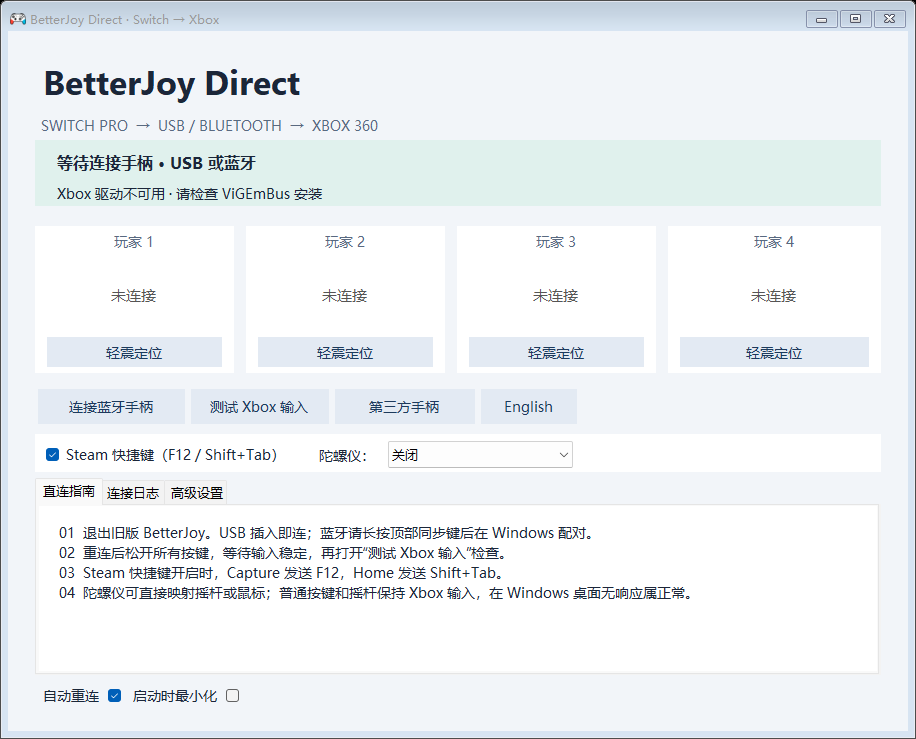
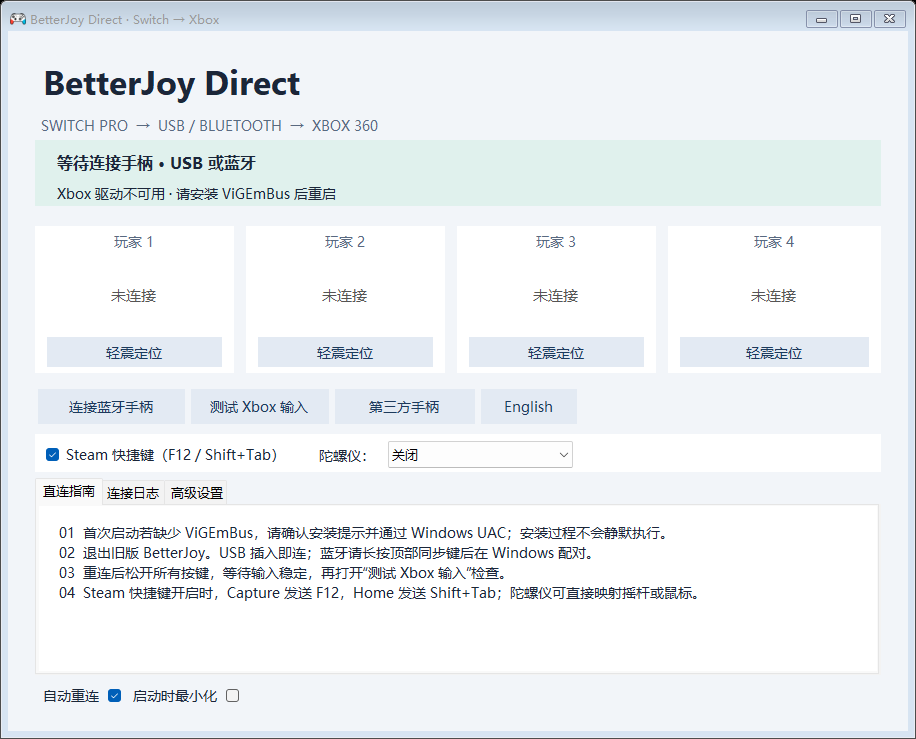
Improve ViGEmBus driver onboarding

Changed region(s): [[0.0917, 0.7158, 0.7642, 0.8092], [0.3057, 0.249, 0.3668, 0.2801], [0.214, 0.249, 0.2445, 0.2801]]

diff --git a/BetterJoyForCemu/UiTextCatalog.cs b/BetterJoyForCemu/UiTextCatalog.cs
@@ -10,7 +10,9 @@ namespace BetterJoyForCemu {
             "Exit", "TrayHint", "WaitingStatus", "ConnectedStatus", "DriverUnavailable",
             "DriverReady", "DriverReadyNoShortcuts", "LanguageButton", "SettingSaveError",
             "SteamShortcutsToggle", "GyroModeLabel", "GyroOff",
-            "GyroLeftStick", "GyroRightStick", "GyroMouse"
+            "GyroLeftStick", "GyroRightStick", "GyroMouse", "DriverInstallTitle",
+            "DriverInstallPrompt", "DriverInstallerMissing", "DriverInstallFailed",
+            "DriverRestartRequired", "DriverInstallRetryFailed"
         };
 
         private readonly IDictionary<string, string> values;
@@ -59,7 +61,7 @@ namespace BetterJoyForCemu {
                 { "GuideTab", "直连指南" },
                 { "LogTab", "连接日志" },
                 { "AdvancedTab", "高级设置" },
-                { "GuideBody", "01  退出旧版 BetterJoy。USB 插入即连；蓝牙请长按顶部同步键后在 Windows 配对。\r\n02  重连后松开所有按键，等待输入稳定，再打开“测试 Xbox 输入”检查。\r\n03  Steam 快捷键开启时，Capture 发送 F12，Home 发送 Shift+Tab。\r\n04  陀螺仪可直接映射摇杆或鼠标；普通按键和摇杆保持 Xbox 输入，在 Windows 桌面无响应属正常。" },
+                { "GuideBody", "01  首次启动若缺少 ViGEmBus，请确认安装提示并通过 Windows UAC；安装过程不会静默执行。\r\n02  退出旧版 BetterJoy。USB 插入即连；蓝牙请长按顶部同步键后在 Windows 配对。\r\n03  重连后松开所有按键，等待输入稳定，再打开“测试 Xbox 输入”检查。\r\n04  Steam 快捷键开启时，Capture 发送 F12，Home 发送 Shift+Tab；陀螺仪可直接映射摇杆或鼠标。" },
                 { "SaveRestart", "保存并重启" },
                 { "AutoReconnect", "自动重连" },
                 { "StartInTray", "启动时最小化" },
@@ -67,7 +69,7 @@ namespace BetterJoyForCemu {
                 { "TrayHint", "双击托盘图标恢复 BetterJoy Direct。" },
                 { "WaitingStatus", "等待连接手柄 · USB 或蓝牙" },
                 { "ConnectedStatus", "已连接 {0} 个手柄 · 松开唤醒按键后开始使用" },
-                { "DriverUnavailable", "Xbox 驱动不可用 · 请检查 ViGEmBus 安装" },
+                { "DriverUnavailable", "Xbox 驱动不可用 · 请安装 ViGEmBus 后重启" },
                 { "DriverReady", "Xbox 驱动已就绪 · 标准手柄输入正常 · Steam 快捷键已开启" },
                 { "DriverReadyNoShortcuts", "Xbox 驱动已就绪 · 标准手柄输入正常 · Steam 快捷键已关闭" },
                 { "LanguageButton", "English" },
@@ -77,7 +79,13 @@ namespace BetterJoyForCemu {
                 { "GyroOff", "关闭" },
                 { "GyroLeftStick", "映射左摇杆" },
                 { "GyroRightStick", "映射右摇杆（推荐）" },
-                { "GyroMouse", "映射鼠标" }
+                { "GyroMouse", "映射鼠标" },
+                { "DriverInstallTitle", "安装 Xbox 虚拟手柄驱动" },
+                { "DriverInstallPrompt", "BetterJoy Direct 需要 ViGEmBus 才能创建虚拟 Xbox 手柄。\r\n\r\n完整发布包内含由 Nefarius 签名的 ViGEmBus 1.17.333.0。该项目已停止维护。是否现在启动安装程序？\r\n\r\nWindows 将显示管理员权限提示；驱动不会静默安装。" },
+                { "DriverInstallerMissing", "未找到随包驱动安装程序：\r\n{0}\r\n\r\n请重新下载并完整解压 BetterJoy Direct。" },
+                { "DriverInstallFailed", "ViGEmBus 安装程序未成功完成（退出代码：{0}）。请打开 Drivers 文件夹手动运行安装程序。" },
+                { "DriverRestartRequired", "ViGEmBus 安装已经完成，但 Windows 要求重新启动。请重启 Windows 后再次运行 BetterJoy Direct。" },
+                { "DriverInstallRetryFailed", "安装程序已结束，但 ViGEmBus 仍不可用。请重启 BetterJoy Direct；若仍失败，请重启 Windows。" }
             };
         }
 
@@ -96,7 +104,7 @@ namespace BetterJoyForCemu {
                 { "GuideTab", "Direct connection" },
                 { "LogTab", "Connection log" },
                 { "AdvancedTab", "Advanced" },
-                { "GuideBody", "01  Close older BetterJoy versions. Connect by USB, or hold the top sync button and pair in Windows.\r\n02  After reconnecting, release every button and wait for stable input, then open “Test Xbox input”.\r\n03  With Steam shortcuts on, Capture sends F12 and Home sends Shift+Tab.\r\n04  Gyro can directly drive a stick or mouse. Regular buttons and sticks remain Xbox input, so no response on the Windows desktop is normal." },
+                { "GuideBody", "01  If ViGEmBus is missing on first launch, confirm the installer prompt and Windows UAC; installation is never silent.\r\n02  Close older BetterJoy versions. Connect by USB, or hold the top sync button and pair in Windows.\r\n03  After reconnecting, release every button and wait for stable input, then open “Test Xbox input”.\r\n04  Capture sends F12 and Home sends Shift+Tab when Steam shortcuts are on; gyro can drive a stick or mouse." },
                 { "SaveRestart", "Save and restart" },
                 { "AutoReconnect", "Auto reconnect" },
                 { "StartInTray", "Start minimized" },
@@ -104,7 +112,7 @@ namespace BetterJoyForCemu {
                 { "TrayHint", "Double-click the tray icon to restore BetterJoy Direct." },
                 { "WaitingStatus", "Waiting for a controller · USB or Bluetooth" },
                 { "ConnectedStatus", "{0} controller(s) connected · release wake buttons before use" },
-                { "DriverUnavailable", "Xbox driver unavailable · check the ViGEmBus installation" },
+                { "DriverUnavailable", "Xbox driver unavailable · install ViGEmBus and restart" },
                 { "DriverReady", "Xbox driver ready · standard controller input active · Steam shortcuts on" },
                 { "DriverReadyNoShortcuts", "Xbox driver ready · standard controller input active · Steam shortcuts off" },
                 { "LanguageButton", "中文" },
@@ -114,7 +122,13 @@ namespace BetterJoyForCemu {
                 { "GyroOff", "Off" },
                 { "GyroLeftStick", "Map to left stick" },
                 { "GyroRightStick", "Map to right stick (recommended)" },
-                { "GyroMouse", "Map to mouse" }
+                { "GyroMouse", "Map to mouse" },
+                { "DriverInstallTitle", "Install the Xbox virtual controller driver" },
+                { "DriverInstallPrompt", "BetterJoy Direct requires ViGEmBus to create a virtual Xbox controller.\r\n\r\nThe complete release includes ViGEmBus 1.17.333.0 signed by Nefarius. The project has been retired. Start the installer now?\r\n\r\nWindows will request administrator approval; the driver is never installed silently." },
+                { "DriverInstallerMissing", "The bundled driver installer was not found:\r\n{0}\r\n\r\nDownload BetterJoy Direct again and extract the complete archive." },
+                { "DriverInstallFailed", "The ViGEmBus installer did not complete successfully (exit code: {0}). Open the Drivers folder and run the installer manually." },
+                { "DriverRestartRequired", "ViGEmBus installation completed, but Windows requires a restart. Restart Windows, then run BetterJoy Direct again." },
+                { "DriverInstallRetryFailed", "The installer finished, but ViGEmBus is still unavailable. Restart BetterJoy Direct; if that fails, restart Windows." }
             };
         }
     }

diff --git a/BetterJoyForCemu/ViGEmBusInstaller.cs b/BetterJoyForCemu/ViGEmBusInstaller.cs
@@ -1,0 +1,68 @@
+using System;
+using System.ComponentModel;
+using System.Diagnostics;
+using System.IO;
+using System.Windows.Forms;
+
+namespace BetterJoyForCemu {
+    internal static class ViGEmBusInstaller {
+        internal const string InstallerRelativePath = @"Drivers\ViGEmBusSetup_x64.msi";
+
+        internal static string GetInstallerPath(string baseDirectory) {
+            return Path.Combine(baseDirectory, InstallerRelativePath);
+        }
+
+        internal static bool PromptAndInstall(MainForm form) {
+            string installerPath = GetInstallerPath(AppDomain.CurrentDomain.BaseDirectory);
+            string title = form.GetUiText("DriverInstallTitle");
+            if (!File.Exists(installerPath)) {
+                MessageBox.Show(form,
+                    String.Format(form.GetUiText("DriverInstallerMissing"), installerPath),
+                    title, MessageBoxButtons.OK, MessageBoxIcon.Error);
+                return false;
+            }
+
+            if (MessageBox.Show(form, form.GetUiText("DriverInstallPrompt"), title,
+                MessageBoxButtons.YesNo, MessageBoxIcon.Warning) != DialogResult.Yes)
+                return false;
+
+            try {
+                var startInfo = new ProcessStartInfo {
+                    FileName = "msiexec.exe",
+                    Arguments = "/i \"" + installerPath + "\" /norestart",
+                    WorkingDirectory = Path.GetDirectoryName(installerPath),
+                    UseShellExecute = true,
+                    Verb = "runas"
+                };
+                int exitCode;
+                using (Process installer = Process.Start(startInfo)) {
+                    if (installer == null) return false;
+                    installer.WaitForExit();
+                    exitCode = installer.ExitCode;
+                }
+
+                if (exitCode == 0) return true;
+                if (exitCode == 1641 || exitCode == 3010) {
+                    MessageBox.Show(form, form.GetUiText("DriverRestartRequired"), title,
+                        MessageBoxButtons.OK, MessageBoxIcon.Information);
+                    return false;
+                }
+
+                MessageBox.Show(form,
+                    String.Format(form.GetUiText("DriverInstallFailed"), exitCode),
+                    title, MessageBoxButtons.OK, MessageBoxIcon.Error);
+            } catch (Win32Exception e) {
+                // Windows returns 1223 when the user cancels the UAC prompt.
+                if (e.NativeErrorCode != 1223)
+                    MessageBox.Show(form,
+                        String.Format(form.GetUiText("DriverInstallFailed"), e.NativeErrorCode),
+                        title, MessageBoxButtons.OK, MessageBoxIcon.Error);
+            } catch (Exception) {
+                MessageBox.Show(form,
+                    String.Format(form.GetUiText("DriverInstallFailed"), "unknown"),
+                    title, MessageBoxButtons.OK, MessageBoxIcon.Error);
+            }
+            return false;
+        }
+    }
+}

diff --git a/tests/FeatureRegressionTests.cs b/tests/FeatureRegressionTests.cs
@@ -1,5 +1,6 @@
 using System;
 using System.Drawing;
+using System.IO;
 using System.Reflection;
 using System.Windows.Forms;
 using BetterJoyForCemu;
@@ -36,6 +37,18 @@ class FeatureRegressionTests {
             Fail("Language normalization is inconsistent");
         if (chinese["LanguageButton"] == english["LanguageButton"])
             Fail("Language button does not expose the target language");
+
+        Type installerType = typeof(UiTextCatalog).Assembly.GetType("BetterJoyForCemu.ViGEmBusInstaller");
+        if (installerType == null)
+            Fail("ViGEmBus installer helper was not included in the application");
+        MethodInfo getInstallerPath = installerType.GetMethod("GetInstallerPath", BindingFlags.Static | BindingFlags.NonPublic);
+        if (getInstallerPath == null)
+            Fail("ViGEmBus installer path resolver was not found");
+        string fakeBase = Path.Combine(Path.GetTempPath(), "BetterJoy-Direct-driver-test");
+        string resolvedInstallerPath = (string)getInstallerPath.Invoke(null, new object[] { fakeBase });
+        string expectedInstallerPath = Path.Combine(fakeBase, "Drivers", "ViGEmBusSetup_x64.msi");
+        if (!String.Equals(resolvedInstallerPath, expectedInstallerPath, StringComparison.OrdinalIgnoreCase))
+            Fail("ViGEmBus installer path resolved incorrectly: " + resolvedInstallerPath);
 
         MainForm.PreviewOnly = true;
         MainForm.PreviewLanguage = "zh-CN";
@@ -118,6 +131,7 @@ class FeatureRegressionTests {
 
         Console.WriteLine("PASS: gentle locate profile " + profile.Strength + " for " + profile.DurationMs + "ms");
         Console.WriteLine("PASS: " + UiTextCatalog.RequiredKeys.Length + " bilingual UI strings and two-way toggle");
+        Console.WriteLine("PASS: bundled ViGEmBus installer path resolves under Drivers");
         Console.WriteLine("PASS: live language button refresh and preference save");
         Console.WriteLine("PASS: desktop mapping UI removed; Steam shortcut and gyro controls remain live");
         Console.WriteLine("PASS: resize range and paint-ready tray restore");

diff --git a/tools/package-direct.py b/tools/package-direct.py
@@ -20,8 +20,11 @@ guide = '''BetterJoy Direct · Windows x64
 
 旧版自定义键鼠绑定和全局键鼠监听已移除。
 普通按键与摇杆保持 Xbox 输入，在 Windows 桌面无响应属于正常现象。
-本程序仍依赖 ViGEmBus；当前电脑已有，不需要再次安装。
-不包含驱动安装器，不改变 Steam 或系统设备隐藏配置。
+本程序依赖 ViGEmBus。完整发布包内含上游提供、由 Nefarius 签名的 x64 安装程序。
+首次启动若检测不到驱动，程序会先征求同意，再启动安装程序和 Windows UAC；绝不静默安装。
+若选择稍后安装，界面仍可打开，但不会产生虚拟 Xbox/XInput 输出。
+ViGEmBus 已停止维护；安装程序版本与校验值见 Drivers/README.txt。
+本程序不会自动改变 Steam、HidHide 或系统设备隐藏配置。
 如果其它软件仍在映射物理手柄，先退出该软件以排除重复输入。
 
 点“测试 Xbox 输入”检查按键。高级设置点“保存并重启”生效。
@@ -34,7 +37,8 @@ USB 和具体远程软件转发仍需在对应环境验证。
 (app / '使用说明.txt').write_text(guide, encoding='utf-8-sig')
 names = ['BetterJoyForCemu.exe', 'BetterJoyForCemu.exe.config', 'Crc32.NET.dll',
          'JetBrains.Annotations.dll', 'Nefarius.ViGEm.Client.dll', 'WindowsInput.dll',
-         'x64/hidapi.dll', 'LICENSE', '使用说明.txt']
+         'x64/hidapi.dll', 'Drivers/ViGEmBusSetup_x64.msi', 'Drivers/README.txt',
+         'LICENSE', '使用说明.txt']
 entries = [(app / name, name) for name in names]
 entries += [
     (root / 'README.md', 'README.md'),

diff --git a/BetterJoyForCemu/Program.cs b/BetterJoyForCemu/Program.cs
@@ -419,6 +419,16 @@ namespace BetterJoyForCemu {
                     emClient = new ViGEmClient(); // Manages emulated XInput
                 } catch (Nefarius.ViGEm.Client.Exceptions.VigemBusNotFoundException) {
                     form.console.AppendText("Could not start VigemBus. Make sure drivers are installed correctly.\r\n");
+                    if (ViGEmBusInstaller.PromptAndInstall(form)) {
+                        try {
+                            emClient = new ViGEmClient();
+                            form.console.AppendText("ViGEmBus installed and connected.\r\n");
+                        } catch (Nefarius.ViGEm.Client.Exceptions.VigemBusNotFoundException) {
+                            form.console.AppendText(form.GetUiText("DriverInstallRetryFailed") + "\r\n");
+                            MessageBox.Show(form, form.GetUiText("DriverInstallRetryFailed"),
+                                form.GetUiText("DriverInstallTitle"), MessageBoxButtons.OK, MessageBoxIcon.Warning);
+                        }
+                    }
                 }
             }
 

diff --git a/BetterJoyForCemu/MainForm.cs b/BetterJoyForCemu/MainForm.cs
@@ -269,6 +269,8 @@ namespace BetterJoyForCemu {
         }
 
         void ReenableViGEm(Joycon v) {
+            if (Program.emClient == null) return;
+
             if (showAsXInput && v.out_xbox == null) {
                 v.out_xbox = new Controller.OutputControllerXbox360();
 

diff --git a/README.md b/README.md
@@ -9,7 +9,7 @@ A focused Windows x64 fork of [BetterJoy](https://github.com/Davidobot/BetterJoy
 <p>
   <img alt="Windows 10 and 11" src="https://img.shields.io/badge/Windows-10%20%7C%2011-0078D4?logo=windows&logoColor=white">
   <img alt="x64" src="https://img.shields.io/badge/architecture-x64-6C63FF">
-  <img alt="375 regression checks" src="https://img.shields.io/badge/regression%20checks-375%20passing-2EA44F">
+  <img alt="381 regression checks" src="https://img.shields.io/badge/regression%20checks-381%20passing-2EA44F">
   <a href="LICENSE"><img alt="MIT License" src="https://img.shields.io/badge/license-MIT-blue.svg"></a>
 </p>
 
@@ -47,22 +47,24 @@ A focused Windows x64 fork of [BetterJoy](https://github.com/Davidobot/BetterJoy
 
 ## Quick start
 
-### 1. Install the requirement
+### 1. Prepare the virtual-controller driver
 
 - Windows 10 or Windows 11 x64
-- An installed [ViGEmBus](https://github.com/nefarius/ViGEmBus) driver
 - A Switch Pro Controller or supported Joy-Con over USB or Bluetooth
 
-ViGEmBus has been retired upstream. BetterJoy Direct reuses an installed driver; the portable package does not install or replace its kernel component.
+The complete x64 release includes the upstream-provided ViGEmBus `1.17.333.0` x64 installer, Authenticode-signed by Nefarius Software Solutions e.U. On first launch, BetterJoy Direct detects a missing driver and asks before starting the installer. Windows then displays its normal UAC prompt. The driver is never installed silently; choosing **No** leaves the interface available but disables virtual Xbox/XInput output.
+
+ViGEmBus is a system driver, so it cannot be made portable and still requires one administrator-approved installation. The upstream project has been retired; BetterJoy Direct bundles the existing signed installer for compatibility but does not maintain or re-sign it. Its version and SHA-256 are recorded in [`Drivers/README.txt`](BetterJoyForCemu/Drivers/README.txt).
 
 ### 2. Download and connect
 
 1. Download the portable ZIP from [GitHub Releases](https://github.com/zzirui321-rgb/BetterJoy-Direct/releases), then extract the complete archive.
 2. Close older BetterJoy instances and other mappers that may open the same physical controller.
 3. Run `BetterJoyForCemu.exe`.
-4. Connect over USB, or hold the controller's sync button and pair it in Windows Bluetooth settings.
-5. After connecting or reconnecting, release every button and wait at least **300 ms** for the neutral-input gate.
-6. Select **Test Xbox input** and verify the controller in the Windows game-controller panel.
+4. If prompted, choose **Yes**, approve Windows UAC, and complete the bundled ViGEmBus installer. Restart BetterJoy Direct or Windows if requested.
+5. Connect over USB, or hold the controller's sync button and pair it in Windows Bluetooth settings.
+6. After connecting or reconnecting, release every button and wait at least **300 ms** for the neutral-input gate.
+7. Select **Test Xbox input** and verify the controller in the Windows game-controller panel.
 
 > [!TIP]
 > Regular buttons and sticks produce XInput, so Windows Explorer will not react to them. Gyro mouse mode moves the pointer directly.
@@ -96,14 +98,14 @@ report validation → reconnect release gate → calibration and parsing
         └─ optional motion server → DSU/Cemuhook data
 ```
 
-The portable package does not modify drivers, Steam settings, HidHide, or Windows device-hiding rules. Remote-control software must provide its own gamepad-forwarding channel; BetterJoy Direct cannot add controller transport to an arbitrary remote protocol.
+BetterJoy Direct only launches the bundled driver installer after explicit confirmation and Windows UAC; it never installs a driver silently. It does not change Steam settings, HidHide, or Windows device-hiding rules. Remote-control software must provide its own gamepad-forwarding channel; BetterJoy Direct cannot add controller transport to an arbitrary remote protocol.
 
 ## Verification snapshot
 
 | Area | Result |
 |---|---|
 | Input regression | **343 checks passed** — report bounds, all 256 report IDs, timestamps, reconnect gating, calibration, deadzones, Steam shortcut edges, gyro direction, and Guide suppression |
-| UI and behavior | **32 checks passed** — bilingual text, runtime settings, resizing, and tray restore |
+| UI and behavior | **38 checks passed** — bilingual text, driver onboarding, runtime settings, resizing, and tray restore |
 | Virtual Xbox lifecycle | **3 consecutive cycles passed** — create, move, neutralize, and disconnect |
 | Physical hardware | **704 XInput samples** — Switch Pro over Bluetooth, including physical disconnect and automatic reconnect |
 

diff --git a/README.zh-CN.md b/README.zh-CN.md
@@ -9,7 +9,7 @@ BetterJoy 的专注型 Windows x64 分支：更安全的重连、运行时陀螺
 <p>
   <img alt="Windows 10 和 11" src="https://img.shields.io/badge/Windows-10%20%7C%2011-0078D4?logo=windows&logoColor=white">
   <img alt="x64" src="https://img.shields.io/badge/architecture-x64-6C63FF">
-  <img alt="375 项回归检查" src="https://img.shields.io/badge/regression%20checks-375%20passing-2EA44F">
+  <img alt="381 项回归检查" src="https://img.shields.io/badge/regression%20checks-381%20passing-2EA44F">
   <a href="LICENSE"><img alt="MIT License" src="https://img.shields.io/badge/license-MIT-blue.svg"></a>
 </p>
 
@@ -47,22 +47,24 @@ BetterJoy 的专注型 Windows x64 分支：更安全的重连、运行时陀螺
 
 ## 快速开始
 
-### 1. 准备运行环境
+### 1. 准备虚拟手柄驱动
 
 - Windows 10 或 Windows 11 x64
-- 已安装 [ViGEmBus](https://github.com/nefarius/ViGEmBus) 驱动
 - 通过 USB 或蓝牙连接的 Switch Pro Controller 或受支持的 Joy-Con
 
-ViGEmBus 上游已经停止维护。BetterJoy Direct 只复用已安装的驱动；便携包不会安装或替换其内核组件。
+完整的 x64 发布包内含上游提供的 ViGEmBus `1.17.333.0` x64 安装程序，其 Authenticode 签名者为 Nefarius Software Solutions e.U.。首次启动时，BetterJoy Direct 若检测不到驱动，会先询问是否启动安装程序，随后由 Windows 显示正常的 UAC 管理员授权。驱动绝不会静默安装；选择**否**仍可打开界面，但不会产生虚拟 Xbox/XInput 输出。
+
+ViGEmBus 是系统驱动，无法真正“便携化”，因此仍需完成一次管理员授权安装。其上游项目已经停止维护；BetterJoy Direct 仅为兼容性附带现有签名安装程序，不维护或重新签名该内核驱动。版本和 SHA-256 记录在 [`Drivers/README.txt`](BetterJoyForCemu/Drivers/README.txt)。
 
 ### 2. 下载并连接
 
 1. 从 [GitHub Releases](https://github.com/zzirui321-rgb/BetterJoy-Direct/releases) 下载便携 ZIP，并完整解压。
 2. 退出旧版 BetterJoy，以及可能同时打开同一物理手柄的其它映射软件。
 3. 运行 `BetterJoyForCemu.exe`。
-4. USB 可直接连接；蓝牙请长按手柄同步键，然后在 Windows 蓝牙设置中配对。
-5. 首次连接或重连后松开全部按键，等待至少 **300 毫秒**，让中立输入保护完成。
-6. 点击 **测试 Xbox 输入**，在 Windows 游戏控制器面板中检查按键与摇杆。
+4. 若出现提示，请选择**是**、通过 Windows UAC，并完成随包 ViGEmBus 安装；如有要求，请重启 BetterJoy Direct 或 Windows。
+5. USB 可直接连接；蓝牙请长按手柄同步键，然后在 Windows 蓝牙设置中配对。
+6. 首次连接或重连后松开全部按键，等待至少 **300 毫秒**，让中立输入保护完成。
+7. 点击 **测试 Xbox 输入**，在 Windows 游戏控制器面板中检查按键与摇杆。
 
 > [!TIP]
 > 普通按键和摇杆输出 XInput，因此 Windows 资源管理器不会响应它们。陀螺仪鼠标模式会直接移动光标。
@@ -96,14 +98,14 @@ Switch Pro / Joy-Con
         └─ 可选 Motion Server → DSU/Cemuhook 数据
 ```
 
-便携包不会修改驱动、Steam 设置、HidHide 或 Windows 设备隐藏规则。远程控制软件必须自身支持游戏手柄转发；BetterJoy Direct 无法为任意远程协议自动增加手柄通道。
+BetterJoy Direct 只有在用户明确同意并通过 Windows UAC 后才会启动随包驱动安装程序，绝不会静默安装。它不会修改 Steam 设置、HidHide 或 Windows 设备隐藏规则。远程控制软件必须自身支持游戏手柄转发；BetterJoy Direct 无法为任意远程协议自动增加手柄通道。
 
 ## 验证概览
 
 | 范围 | 结果 |
 |---|---|
 | 输入回归 | **343 项通过**——报文边界、全部 256 个 report ID、时间戳、重连释放门、校准、死区、Steam 快捷键按下沿、陀螺仪方向和 Guide 抑制 |
-| 界面与行为 | **32 项通过**——双语文案、运行时设置、窗口缩放和托盘恢复 |
+| 界面与行为 | **38 项通过**——双语文案、驱动安装引导、运行时设置、窗口缩放和托盘恢复 |
 | 虚拟 Xbox 生命周期 | **连续 3 轮通过**——创建、移动、归零与断开 |
 | 实体硬件 | **704 个 XInput 样本**——Switch Pro 蓝牙连接，包括物理断开与自动重连 |
 

diff --git a/docs/FEATURES.zh-CN.md b/docs/FEATURES.zh-CN.md
@@ -84,6 +84,15 @@ Valve 官方资料：[Steam Input 支持的设备](https://partner.steamgames.co
 - Steam 快捷键只是可选便利功能，不参与 HID→XInput 转换。
 - 远程软件仍必须支持游戏手柄转发；BetterJoy 不会给任意远程协议自动增加手柄通道。
 
+## ViGEmBus 首次安装
+
+- Windows x64 发布包附带上游提供的 `Drivers/ViGEmBusSetup_x64.msi` `1.17.333.0`，其 Authenticode 签名者为 Nefarius Software Solutions e.U.。
+- 启动时若检测不到 ViGEmBus，程序会先显示中英文说明；只有用户选择“是”后才启动安装程序。
+- Windows Installer 使用正常交互界面并请求 UAC 管理员权限；BetterJoy Direct 不使用静默安装参数，也禁止安装程序自动重启 Windows。
+- 用户取消或安装失败时，主界面仍可打开并显示驱动不可用，但不会创建虚拟 Xbox/DS4 设备。
+- 安装成功后程序会立即重试连接；若 Windows 返回“需要重启”，则明确提示用户重启。
+- ViGEmBus 已停止维护；本项目仅附带现有签名安装程序，不修改、重新签名或维护其内核驱动。版本和 SHA-256 见 [`../BetterJoyForCemu/Drivers/README.txt`](../BetterJoyForCemu/Drivers/README.txt)。
+
 ## 界面与定位震动
 
 - `English / 中文` 按钮即时切换主界面、状态、指南和托盘文字，并保存 `UiLanguage`。
@@ -127,10 +136,10 @@ Valve 官方资料：[Steam Input 支持的设备](https://partner.steamgames.co
 ## 验证与边界
 
 - 输入自动回归：343 项，覆盖 HID 报文边界、Steam 快捷键、陀螺仪方向，并确认旧键鼠发射入口已经删除。
-- UI/功能回归：32 组双语文案，以及语言切换与保存、Steam/陀螺仪快捷设置、旧映射入口移除、窗口缩放和托盘恢复顺序。
+- UI/功能回归：38 组双语文案，以及驱动安装引导、语言切换与保存、Steam/陀螺仪快捷设置、旧映射入口移除、窗口缩放和托盘恢复顺序。
 - 虚拟 Xbox 输出：连续 3 轮创建、移动、归零、断开。
 - 实体蓝牙记录：704 个 XInput 样本、1 次物理断开与成功重连；最终四轴归零，无输出错误。
 - 已验证 Switch Pro 蓝牙；USB、其他第三方手柄、具体游戏/反作弊和具体远程软件仍需在对应环境验证。
-- ViGEmBus 上游已经停止维护；本项目复用已安装驱动，不替换、安装或签名新的内核驱动。
+- 驱动缺失流程已通过静态路径、随包文件、签名和哈希验证；未在无驱动机器上实际执行安装或 UAC 流程。
 
 详细历史见 [`../CHANGELOG.md`](../CHANGELOG.md)，架构取舍见 [`direct-mode-decision.md`](direct-mode-decision.md)。

diff --git a/CHANGELOG.md b/CHANGELOG.md
@@ -1,8 +1,23 @@
 # 更改日志
 
-本文件记录 BetterJoy Direct 从上游基线开始的用户可见变化。项目尚未建立正式版本标签，以下版本号表示本地交付里程碑。
+本文件记录 BetterJoy Direct 从上游基线开始的用户可见变化。`Direct 0.7.0` 起的公开版本同时使用对应 GitHub 标签；更早条目保留为开发里程碑。
 
 上游基线：Davidobot/BetterJoy `b6715638a3ed1084f8968e8cafebbc6fe2ed0096`。
+
+## [Direct 0.7.1] - 2026-09-28
+
+### 改进
+
+- Windows x64 发布包加入上游提供、由 Nefarius Software Solutions e.U. 签名的 ViGEmBus `1.17.333.0` x64 安装程序及双语说明，并在构建时校验固定 SHA-256。
+- 启动时检测不到 ViGEmBus 会先显示双语说明；只有用户确认后才启动交互式安装程序和 Windows UAC，绝不静默安装。
+- 安装成功后立即重试驱动连接；需要重启、安装失败、UAC 取消和安装包缺失均有明确反馈。
+- 缺驱动时禁止重新创建虚拟 Xbox/DS4 输出，避免配对切换路径触发空引用。
+
+### 文档与验证
+
+- 中英文 README、功能文档和随包说明同步记录驱动版本、维护状态、权限边界、安装步骤与 SHA-256。
+- UI 回归扩展到 38 组双语文案，并增加安装路径解析以及随包 MSI 签名、哈希与归档完整性检查。
+- 当前机器已安装 ViGEmBus，因此未实际执行“无驱动机器首次安装”和 UAC 交互流程。
 
 ## [Direct 0.7] - 2026-09-08
 
